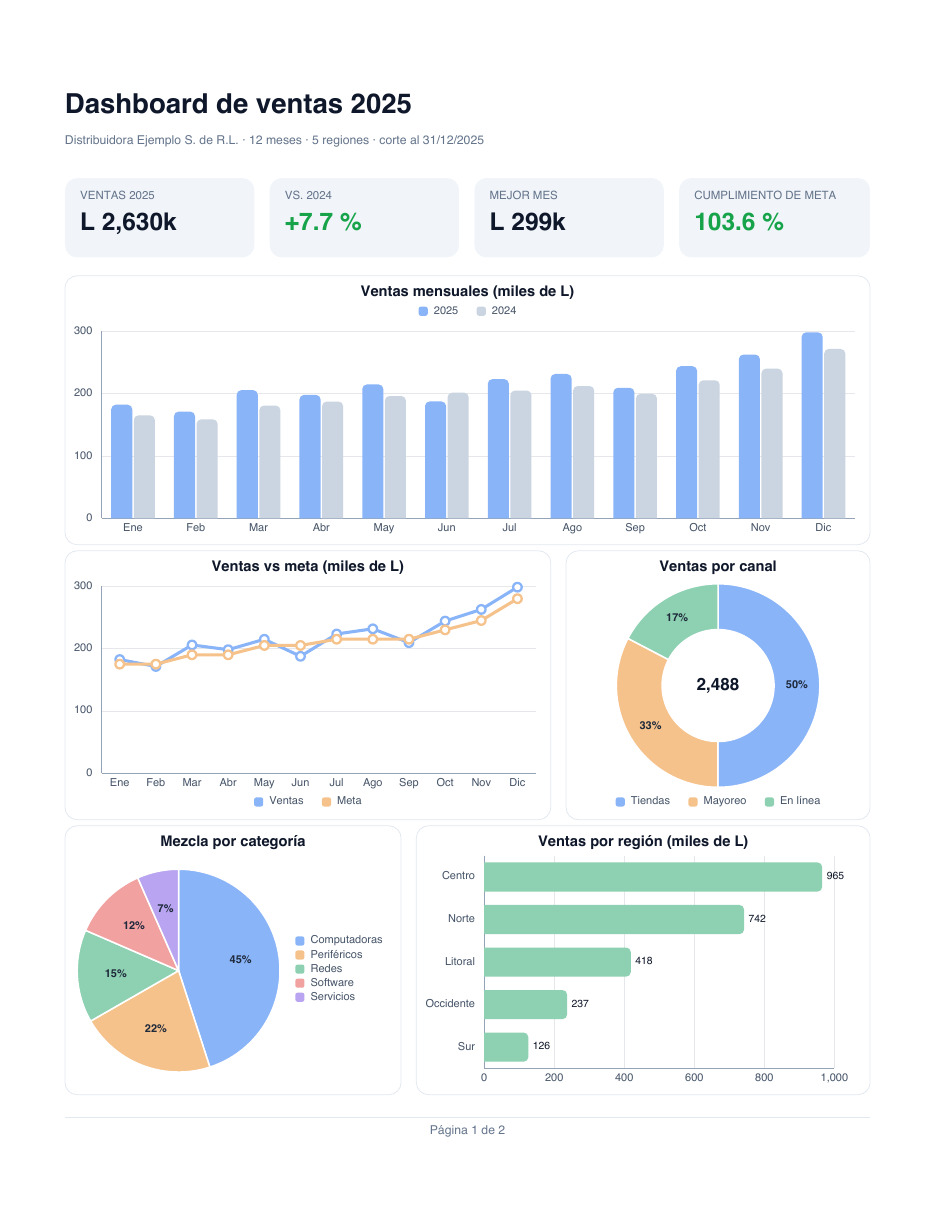
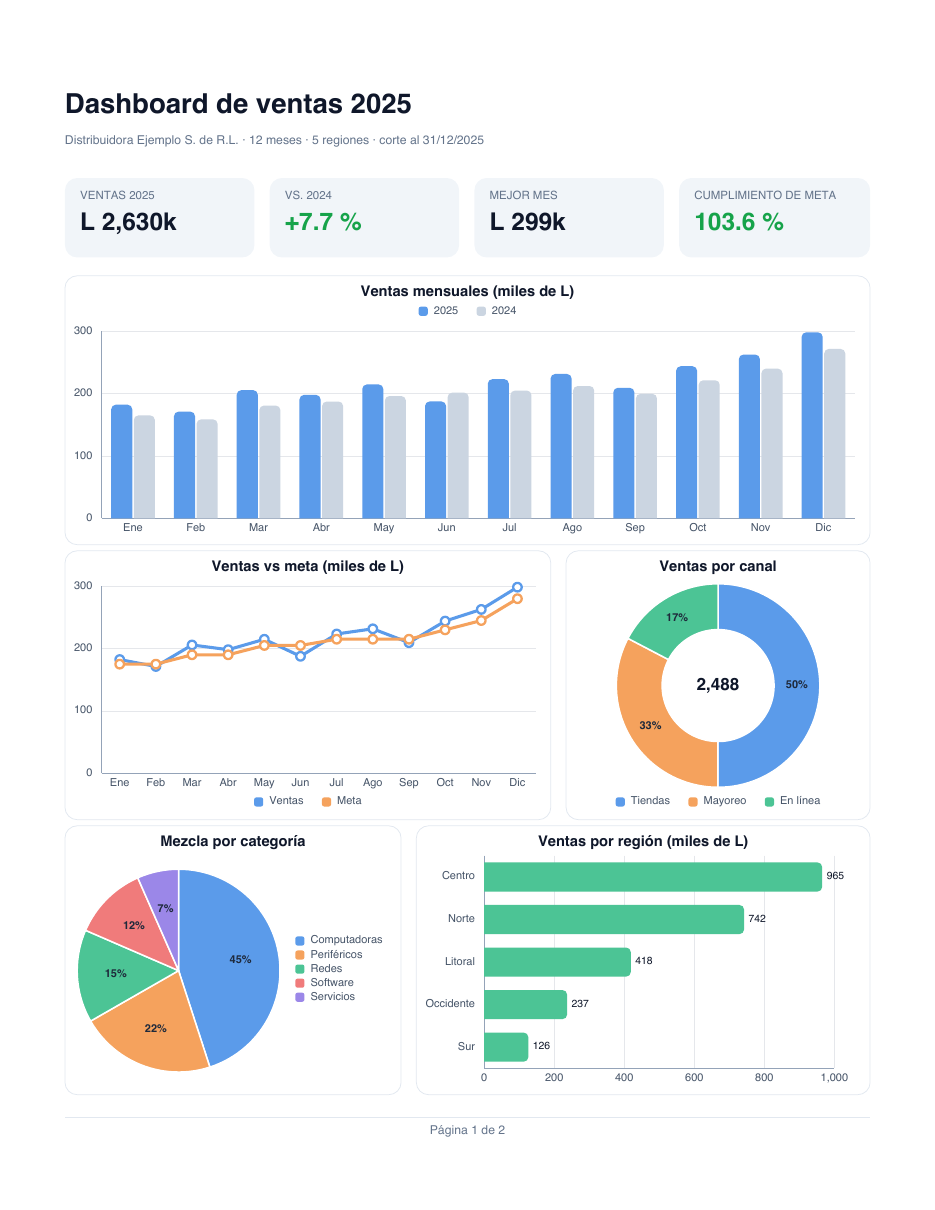
Charts: livelier soft palette
- ChartElement.SoftPalette: the 1.5.0 pastels looked washed out in print;
  replaced with soft mid-tones (#5B9BEA, #F5A25D, #4CC495, #F07B7B,
  #9B87E8, #4FBFD6, #EC7FB5, #A6CF5A), each with >= 4.5:1 contrast
  against the dark inside labels (#1E293B).
- sales-dashboard sample: the horizontal bar chart's pinned color follows
  the new green.
- Regenerated sales-dashboard.png and viewer-embedded.jpg.
- READMEs (EN/ES): new "Behavior changes in 1.5" entry (charts with
  colorScheme: soft and no explicit palette/color change color since
  1.5.1); NuGet README wording updated.

diff --git a/src/NetReporter.Core/Elements/ChartElement.cs b/src/NetReporter.Core/Elements/ChartElement.cs
@@ -116,11 +116,11 @@ public sealed record ChartElement : ReportElement
         Color.FromHex("#8B5CF6"), Color.FromHex("#06B6D4"), Color.FromHex("#EC4899"), Color.FromHex("#84CC16")
     ];
 
-    /// <summary>Paleta suave (<see cref="ChartColorScheme.Soft"/>): tonos pastel que siguen distinguiéndose entre sí.</summary>
+    /// <summary>Paleta suave (<see cref="ChartColorScheme.Soft"/>): tonos medios, suaves pero vivos, que se distinguen entre sí y mantienen contraste ≥ 4.5:1 con las etiquetas oscuras.</summary>
     public static IReadOnlyList<Color> SoftPalette { get; } =
     [
-        Color.FromHex("#8AB4F8"), Color.FromHex("#F6C28B"), Color.FromHex("#8ED1B2"), Color.FromHex("#F2A1A1"),
-        Color.FromHex("#B8A4F0"), Color.FromHex("#86CFDC"), Color.FromHex("#F1A6CC"), Color.FromHex("#C3DB8C")
+        Color.FromHex("#5B9BEA"), Color.FromHex("#F5A25D"), Color.FromHex("#4CC495"), Color.FromHex("#F07B7B"),
+        Color.FromHex("#9B87E8"), Color.FromHex("#4FBFD6"), Color.FromHex("#EC7FB5"), Color.FromHex("#A6CF5A")
     ];
 
     /// <summary>Color de las etiquetas dibujadas dentro de porciones y barras apiladas.</summary>

diff --git a/README.es.md b/README.es.md
@@ -68,10 +68,14 @@
 |---|---|
 | 🟦 **Barras redondeadas** (`barRadius`) | `bar` / `horizontalBar` redondean el extremo libre de cada barra (solo el segmento exterior si están apiladas), limitado a la mitad del grosor de la barra |
 | 🔲 **Tarjeta del gráfico redondeada** (`cornerRadius`) | El `fill` / `borderLine` del gráfico tiene esquinas redondeadas, para combinar con tarjetas KPI redondeadas |
-| 🎨 **Colores suaves** (`colorScheme: soft`) | Paleta pastel para las series sin color explícito, con etiquetas oscuras dentro de las porciones y de las barras apiladas |
+| 🎨 **Colores suaves** (`colorScheme: soft`) | Paleta de tonos medios suaves (claros pero no deslavados) para las series sin color explícito, con etiquetas oscuras dentro de las porciones y de las barras apiladas |
 | 🖱 **Designer** | Nuevo bloque **Apariencia** en el panel del gráfico: colores intensos/suaves, radio de barras, color de fondo (se puede quitar) y su radio. Las series nuevas ya no fijan el color de la paleta en el YAML, así que cambiar de esquema las recolorea |
 
 Son comandos de dibujo normales con un radio, así que el costo de render no cambia y PDF, SVG, HTML y ESC/POS se ven igual. El sample `sales-dashboard` usa las tres. Ver [Gráficos](#-gráficos).
+
+### ⚠ Cambios de comportamiento en la 1.5
+
+1. **Desde la 1.5.1 `colorScheme: soft` usa colores más vivos.** Los pasteles de la 1.5.0 se veían deslavados impresos; `ChartElement.SoftPalette` ahora son tonos medios suaves (`#5B9BEA`, `#F5A25D`, `#4CC495`, `#F07B7B`, `#9B87E8`, `#4FBFD6`, `#EC7FB5`, `#A6CF5A`), todos con contraste ≥ 4.5:1 contra las etiquetas oscuras interiores. Los gráficos con `colorScheme: soft` sin `palette:` ni `color:` explícito cambian de color; para conservar los anteriores, fíjalos en `palette:`. Los gráficos con el esquema por defecto no cambian.
 
 ---
 
@@ -1129,7 +1133,7 @@ Un elemento `chart` lee sus filas con un JSON Path, toma una categoría por fila
 |---|---|
 | `cornerRadius` | Redondea el fondo y el borde del gráfico (`fill` / `borderLine`), por ejemplo para que combine con tarjetas KPI redondeadas |
 | `barRadius` | `bar` / `horizontalBar`: redondea el extremo libre de cada barra — arriba en una barra positiva, abajo en una negativa, a la derecha en una horizontal. En barras apiladas solo se redondea el segmento exterior. El radio se limita a la mitad del grosor de la barra y a su largo |
-| `colorScheme: soft` | Paleta pastel (`ChartElement.SoftPalette`) para las series — o porciones — sin color explícito, con etiquetas oscuras dentro de las porciones de pie/donut y de las barras apiladas (el blanco no se lee sobre colores claros). Un `palette:` explícito o el `color:` de una serie siguen mandando |
+| `colorScheme: soft` | Paleta de tonos medios suaves (`ChartElement.SoftPalette`) para las series — o porciones — sin color explícito, con etiquetas oscuras dentro de las porciones de pie/donut y de las barras apiladas (el blanco no se lee sobre colores claros). Un `palette:` explícito o el `color:` de una serie siguen mandando |
 
 Son comandos de dibujo normales con un radio (los mismos rectángulos redondeados de los elementos `rectangle`), así que no tienen un costo medible y se ven igual en PDF, SVG, HTML y ESC/POS. Desde C#: `CornerRadius`, `BarRadius` y `ColorScheme = ChartColorScheme.Soft` en `ChartElement`. En el Designer están en el panel del gráfico, bajo **Apariencia**.
 

diff --git a/README.md b/README.md
@@ -68,10 +68,14 @@
 |---|---|
 | 🟦 **Rounded bars** (`barRadius`) | `bar` / `horizontalBar` round the free end of each bar (only the outer segment when stacked), capped at half the bar's thickness |
 | 🔲 **Rounded chart card** (`cornerRadius`) | The chart's `fill` / `borderLine` get rounded corners, to match rounded KPI cards |
-| 🎨 **Soft colors** (`colorScheme: soft`) | Pastel palette for series without an explicit color, with dark labels inside slices and stacked bars |
+| 🎨 **Soft colors** (`colorScheme: soft`) | Soft, mid-tone palette (light but not washed out) for series without an explicit color, with dark labels inside slices and stacked bars |
 | 🖱 **Designer** | New **Appearance** block in the chart drawer: vivid/soft colors, bar radius, background color (removable) and radius. New series no longer pin the palette color in the YAML, so switching schemes recolors them |
 
 They are ordinary draw commands with a radius, so rendering cost is unchanged and PDF, SVG, HTML and ESC/POS look the same. The `sales-dashboard` sample uses all three. See [Charts](#-charts).
+
+### ⚠ Behavior changes in 1.5
+
+1. **Since 1.5.1 `colorScheme: soft` uses livelier colors.** The 1.5.0 pastels looked washed out in print; `ChartElement.SoftPalette` is now a set of soft mid-tones (`#5B9BEA`, `#F5A25D`, `#4CC495`, `#F07B7B`, `#9B87E8`, `#4FBFD6`, `#EC7FB5`, `#A6CF5A`), each with ≥ 4.5:1 contrast against the dark inside labels. Charts that use `colorScheme: soft` without an explicit `palette:` / series `color:` change color; pin the old values in `palette:` to keep them. Charts on the default scheme are unaffected.
 
 ---
 
@@ -1128,7 +1132,7 @@ A `chart` element reads its rows with a JSON Path, takes one category per row an
 |---|---|
 | `cornerRadius` | Rounds the chart's background and border (`fill` / `borderLine`), e.g. to match rounded KPI cards |
 | `barRadius` | `bar` / `horizontalBar`: rounds the free end of each bar — the top of a positive bar, the bottom of a negative one, the right end of a horizontal bar. In stacked bars only the outer segment is rounded. The radius is capped at half the bar's thickness and at its length |
-| `colorScheme: soft` | Pastel palette (`ChartElement.SoftPalette`) for series — or slices — without an explicit color, with dark labels inside pie/donut slices and stacked bars (white does not read on light colors). An explicit `palette:` or series `color:` still wins |
+| `colorScheme: soft` | Soft mid-tone palette (`ChartElement.SoftPalette`) for series — or slices — without an explicit color, with dark labels inside pie/donut slices and stacked bars (white does not read on light colors). An explicit `palette:` or series `color:` still wins |
 
 These are plain draw commands with a radius (the same rounded rectangles as `rectangle` elements), so they cost nothing measurable and look the same in PDF, SVG, HTML and ESC/POS. From C#: `CornerRadius`, `BarRadius` and `ColorScheme = ChartColorScheme.Soft` on `ChartElement`. In the Designer they live in the chart drawer under **Appearance**.
 

diff --git a/docs/nuget-readme.md b/docs/nuget-readme.md
@@ -17,7 +17,7 @@ web designer edits the templates, and an embeddable viewer shows them to the use
 Full documentation (English and Spanish), the YAML schema reference, fourteen sample templates and the
 visual web designer live on GitHub: <https://github.com/mchinchilla/NetReporter>
 
-**New in 1.5:** charts with an optional modern look — rounded bars (`barRadius`), rounded chart cards (`cornerRadius`) and a soft pastel color scheme (`colorScheme: soft`).
+**New in 1.5:** charts with an optional modern look — rounded bars (`barRadius`), rounded chart cards (`cornerRadius`) and a soft, mid-tone color scheme (`colorScheme: soft`).
 
 **1.4:** `NetReporter.Viewer` (paginated report viewer for ASP.NET Core apps), an SVG writer that is ~10× faster
 and scales across threads, continuous roll pages (`Roll80` / `Roll58`) and `NetReporter.EscPos` for thermal printers
@@ -193,7 +193,7 @@ if (status.ReadyToPrint)
   subtotals and a grand-total row, computed columns (`binding: "= $.qty * $.price"`).
 - Expression DSL compiled once to delegates: arithmetic, comparisons, ternaries, 40+ text/number/date/aggregate
   functions, `visible:` conditions and dynamic styles.
-- Charts: bar, horizontal bar, line, area, pie and donut, drawn as vector primitives (XLSX gets the data table), with optional rounded bars and cards and a soft pastel color scheme.
+- Charts: bar, horizontal bar, line, area, pie and donut, drawn as vector primitives (XLSX gets the data table), with optional rounded bars and cards and a soft, mid-tone color scheme.
 - Embedded images (PNG/JPEG/GIF/WebP), vector barcodes and QR codes.
 - Inheritable style sheet (`basedOn`) with cycle detection, per-report culture for number and date formats.
 - Page sizes: Letter, Legal, A3-A6, B4-B5, Tabloid, custom sizes and continuous 80 mm / 58 mm roll pages that grow with the content.
